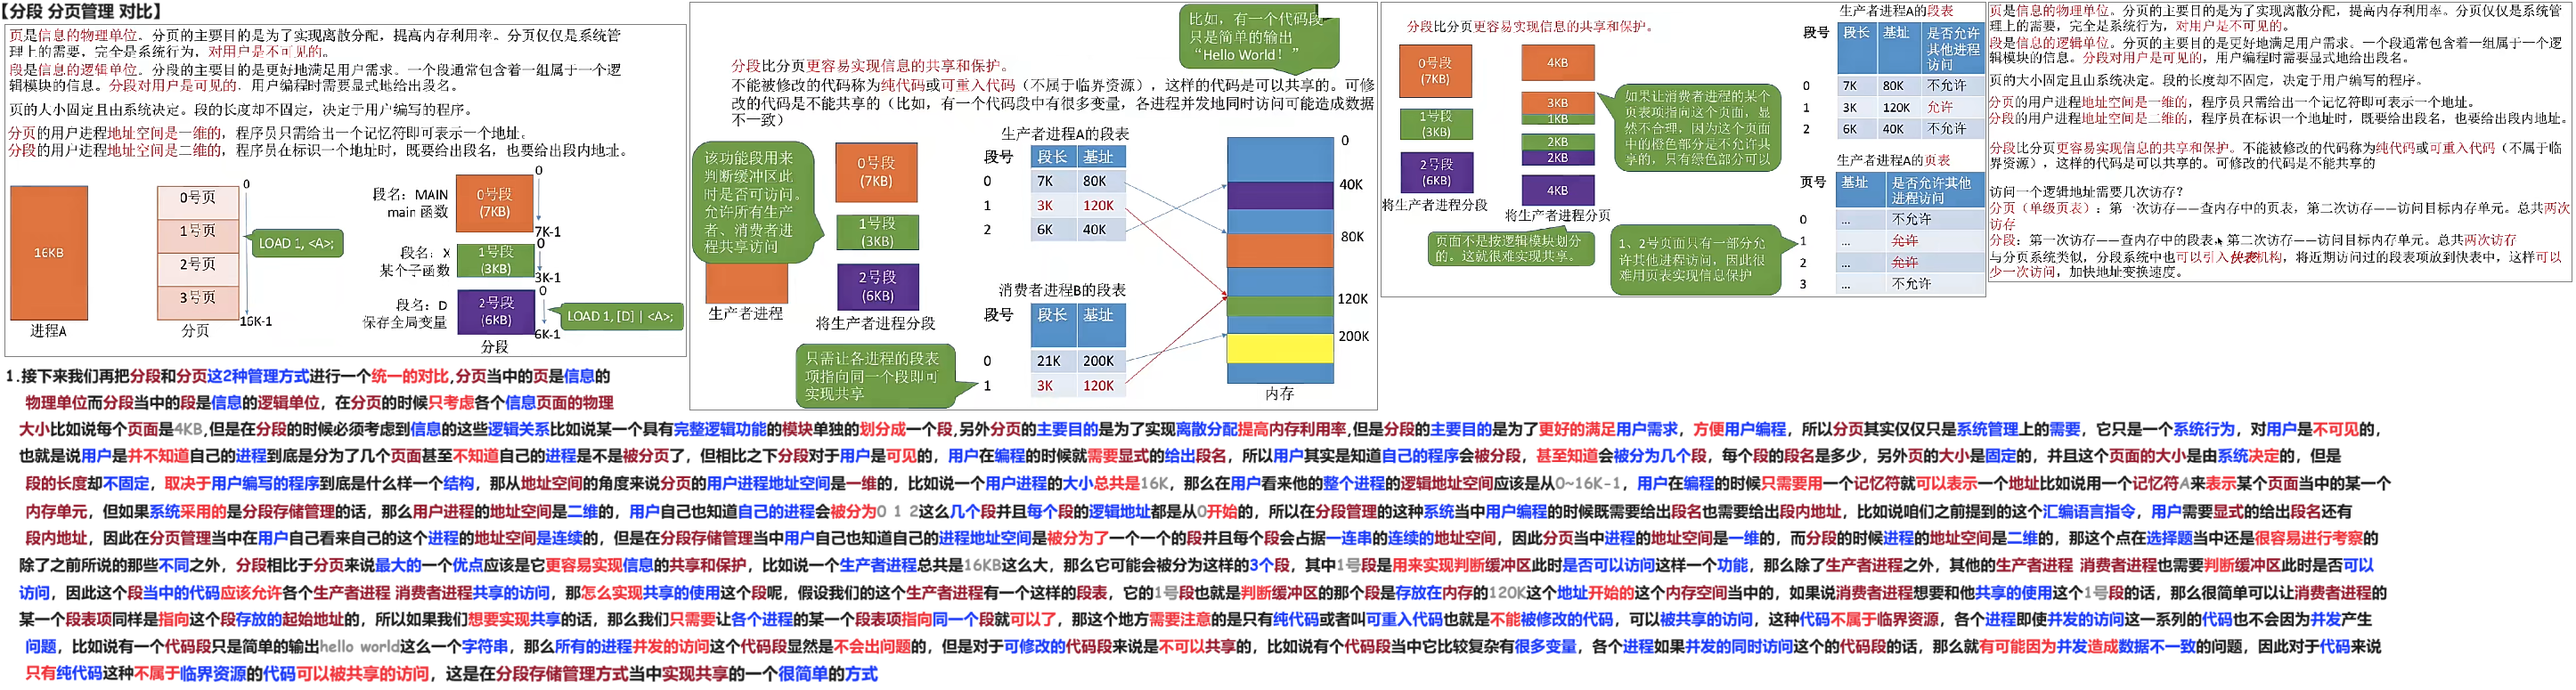
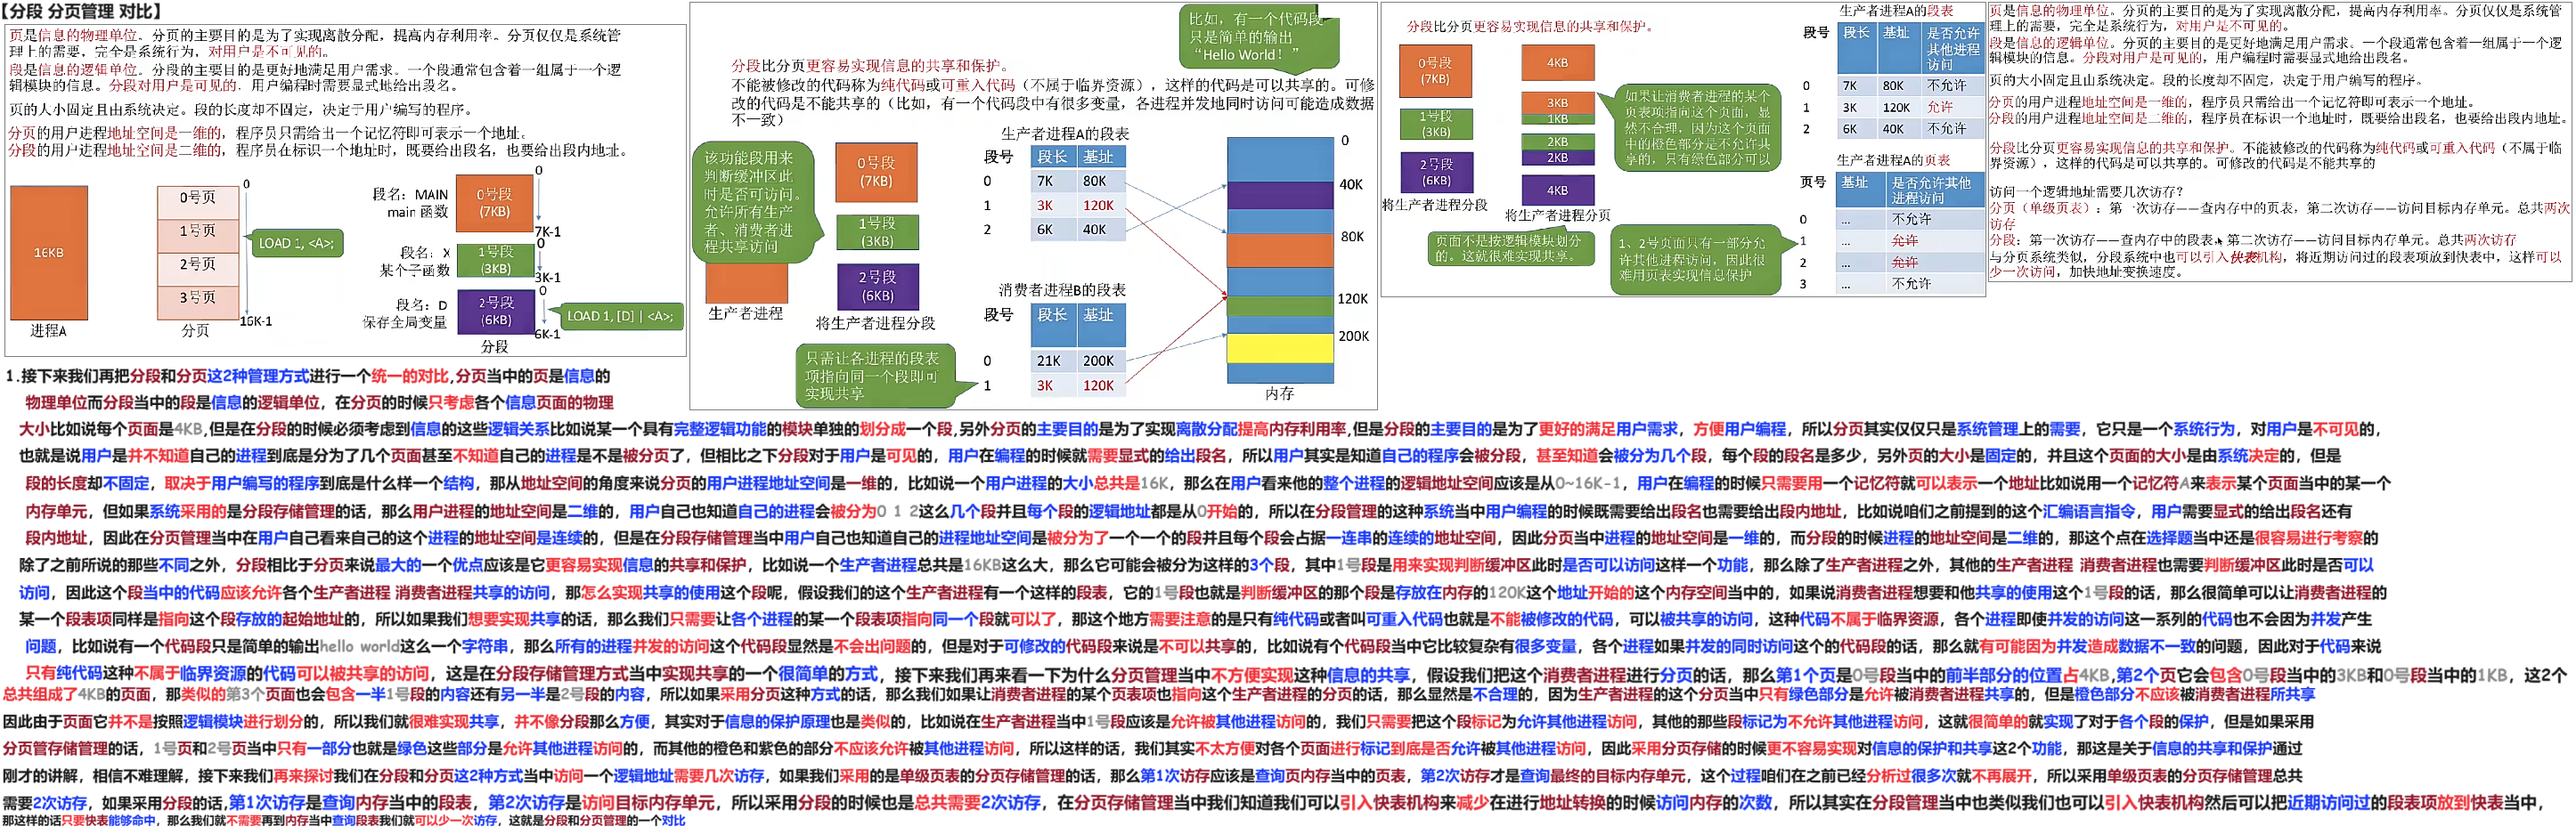
240516

diff --git a/01 初试/01 OS/02 24 25 王道/01 基础/03 内存管理/01 内存管理 概念/11 基本分段存储管理方式 240515/02 Doc.md b/01 初试/01 OS/02 24 25 王道/01 基础/03 内存管理/01 内存管理 概念/11 基本分段存储管理方式 240515/02 Doc.md
@@ -28,4 +28,10 @@
 
 # 05 分段 分页管理 对比
 
-<img src="https://cvp.oss-cn-shanghai.aliyuncs.com/picgo/202405160732816.png" alt="image-20240516073204084" style="zoom:50%;" />
+<img src="https://cvp.oss-cn-shanghai.aliyuncs.com/picgo/202405160826063.png" alt="image-20240516082559145" style="zoom:50%;" />
+
+
+
+# 06 知识回顾与重要考点
+
+<img src="https://cvp.oss-cn-shanghai.aliyuncs.com/picgo/202405160856805.png" alt="image-20240516085649690" style="zoom:50%;" />
